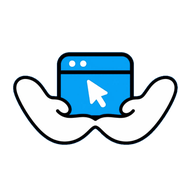
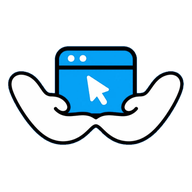
Deixa o ícone da aba sem fundo

Changed region(s): [[0.0312, 0.2188, 0.9688, 0.7812]]

diff --git a/index.html b/index.html
@@ -7,8 +7,8 @@
   <meta name="description" content="A Webora cria sites e lojas online sob medida, rápidos no celular e ligados ao seu WhatsApp. Veja os projetos que já estão no ar e peça o seu.">
   <meta name="theme-color" content="#0120E9">
   <link rel="canonical" href="https://www.weborasites.com.br/">
-  <link rel="icon" href="/favicon.ico?v=11" sizes="16x16 32x32 48x48">
-  <link rel="apple-touch-icon" href="/apple-icon.png?v=11">
+  <link rel="icon" href="/favicon.ico?v=12" sizes="16x16 32x32 48x48">
+  <link rel="apple-touch-icon" href="/apple-icon.png?v=12">
   <link rel="manifest" href="/site.webmanifest">
 
   <meta property="og:type" content="website">

diff --git a/404.html b/404.html
@@ -6,8 +6,8 @@
   <title>Página não encontrada | Webora</title>
   <meta name="robots" content="noindex">
   <meta name="theme-color" content="#FFFFFF">
-  <link rel="icon" href="/favicon.ico?v=11" sizes="16x16 32x32 48x48">
-  <link rel="apple-touch-icon" href="/apple-icon.png?v=11">
+  <link rel="icon" href="/favicon.ico?v=12" sizes="16x16 32x32 48x48">
+  <link rel="apple-touch-icon" href="/apple-icon.png?v=12">
   <link rel="preconnect" href="https://fonts.googleapis.com">
   <link rel="preconnect" href="https://fonts.gstatic.com" crossorigin>
   <link rel="stylesheet" href="https://fonts.googleapis.com/css2?family=Plus+Jakarta+Sans:wght@400..800&display=swap">

diff --git a/admin.html b/admin.html
@@ -8,7 +8,7 @@
   <meta name="robots" content="noindex, nofollow">
   <title>Painel de contratos | Webora</title>
   <meta name="theme-color" content="#FFFFFF">
-  <link rel="icon" href="/favicon.ico?v=11" sizes="16x16 32x32 48x48">
+  <link rel="icon" href="/favicon.ico?v=12" sizes="16x16 32x32 48x48">
   <link rel="preconnect" href="https://fonts.googleapis.com">
   <link rel="preconnect" href="https://fonts.gstatic.com" crossorigin>
   <link rel="stylesheet" href="https://fonts.googleapis.com/css2?family=Plus+Jakarta+Sans:wght@400..800&display=swap">

diff --git a/contrato.html b/contrato.html
@@ -8,7 +8,7 @@
   <meta name="robots" content="noindex, nofollow">
   <title>Via do contrato | Webora</title>
   <meta name="theme-color" content="#FFFFFF">
-  <link rel="icon" href="/favicon.ico?v=11" sizes="16x16 32x32 48x48">
+  <link rel="icon" href="/favicon.ico?v=12" sizes="16x16 32x32 48x48">
   <link rel="preconnect" href="https://fonts.googleapis.com">
   <link rel="preconnect" href="https://fonts.gstatic.com" crossorigin>
   <link rel="stylesheet" href="https://fonts.googleapis.com/css2?family=Plus+Jakarta+Sans:wght@400..800&display=swap">
